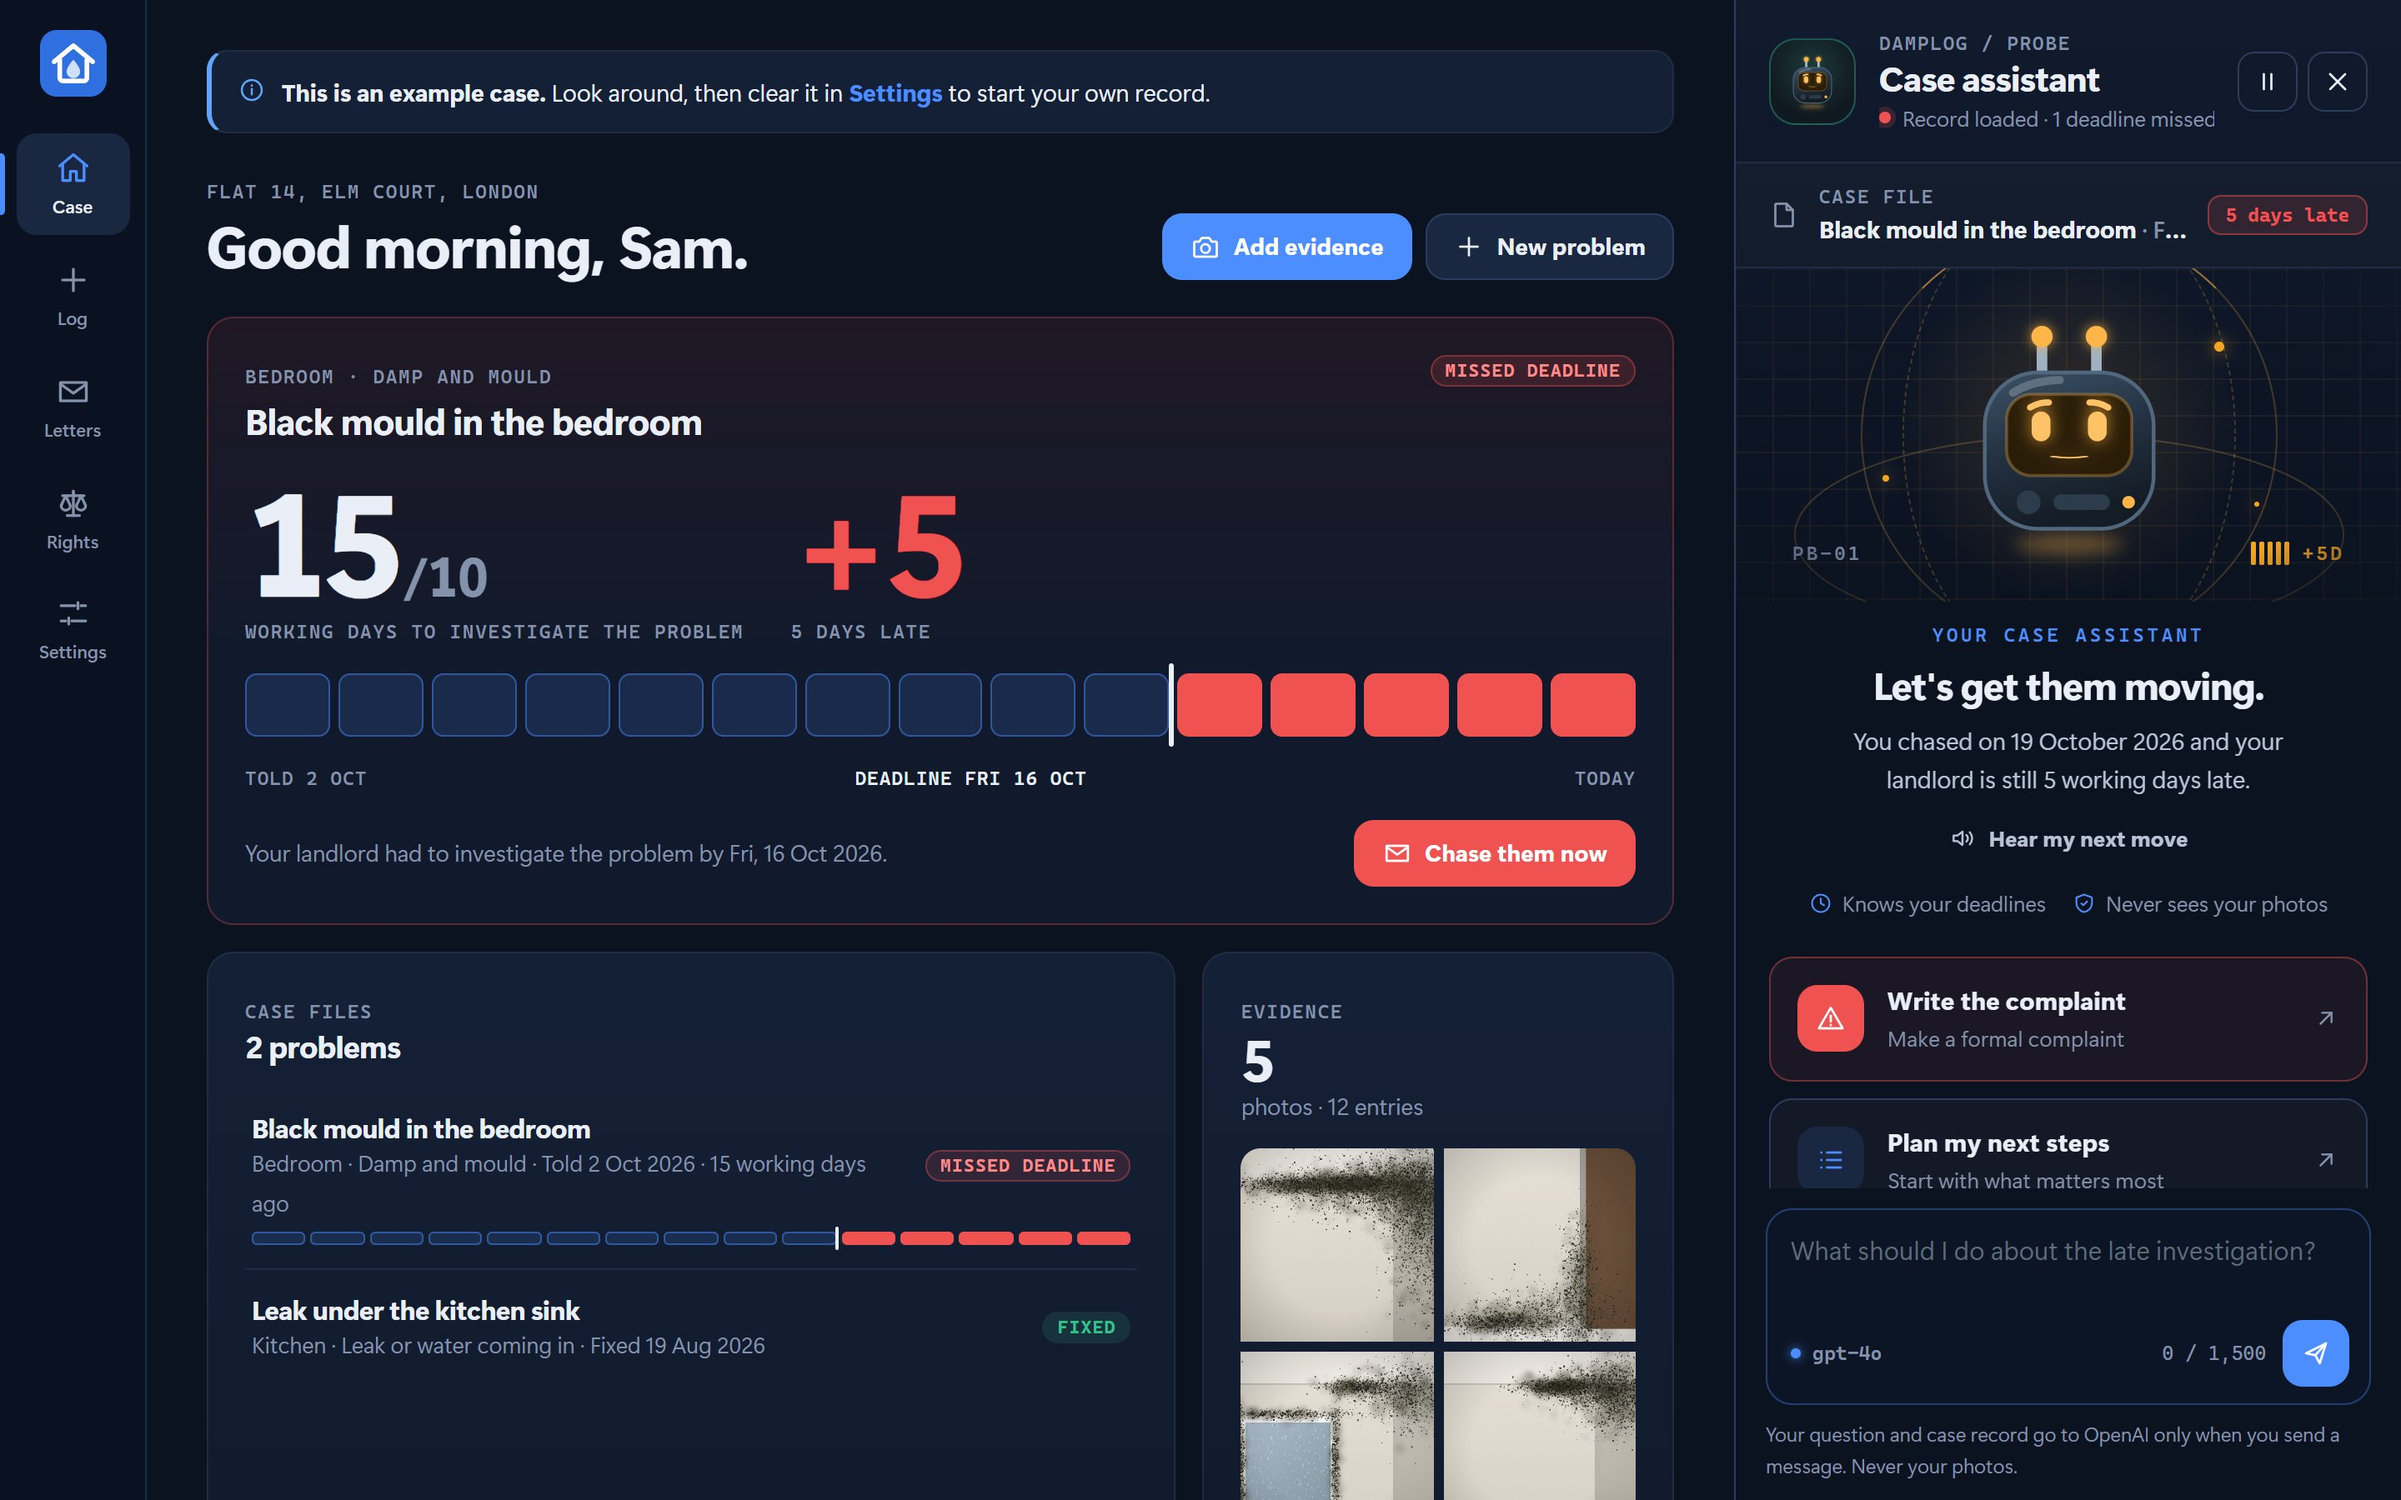
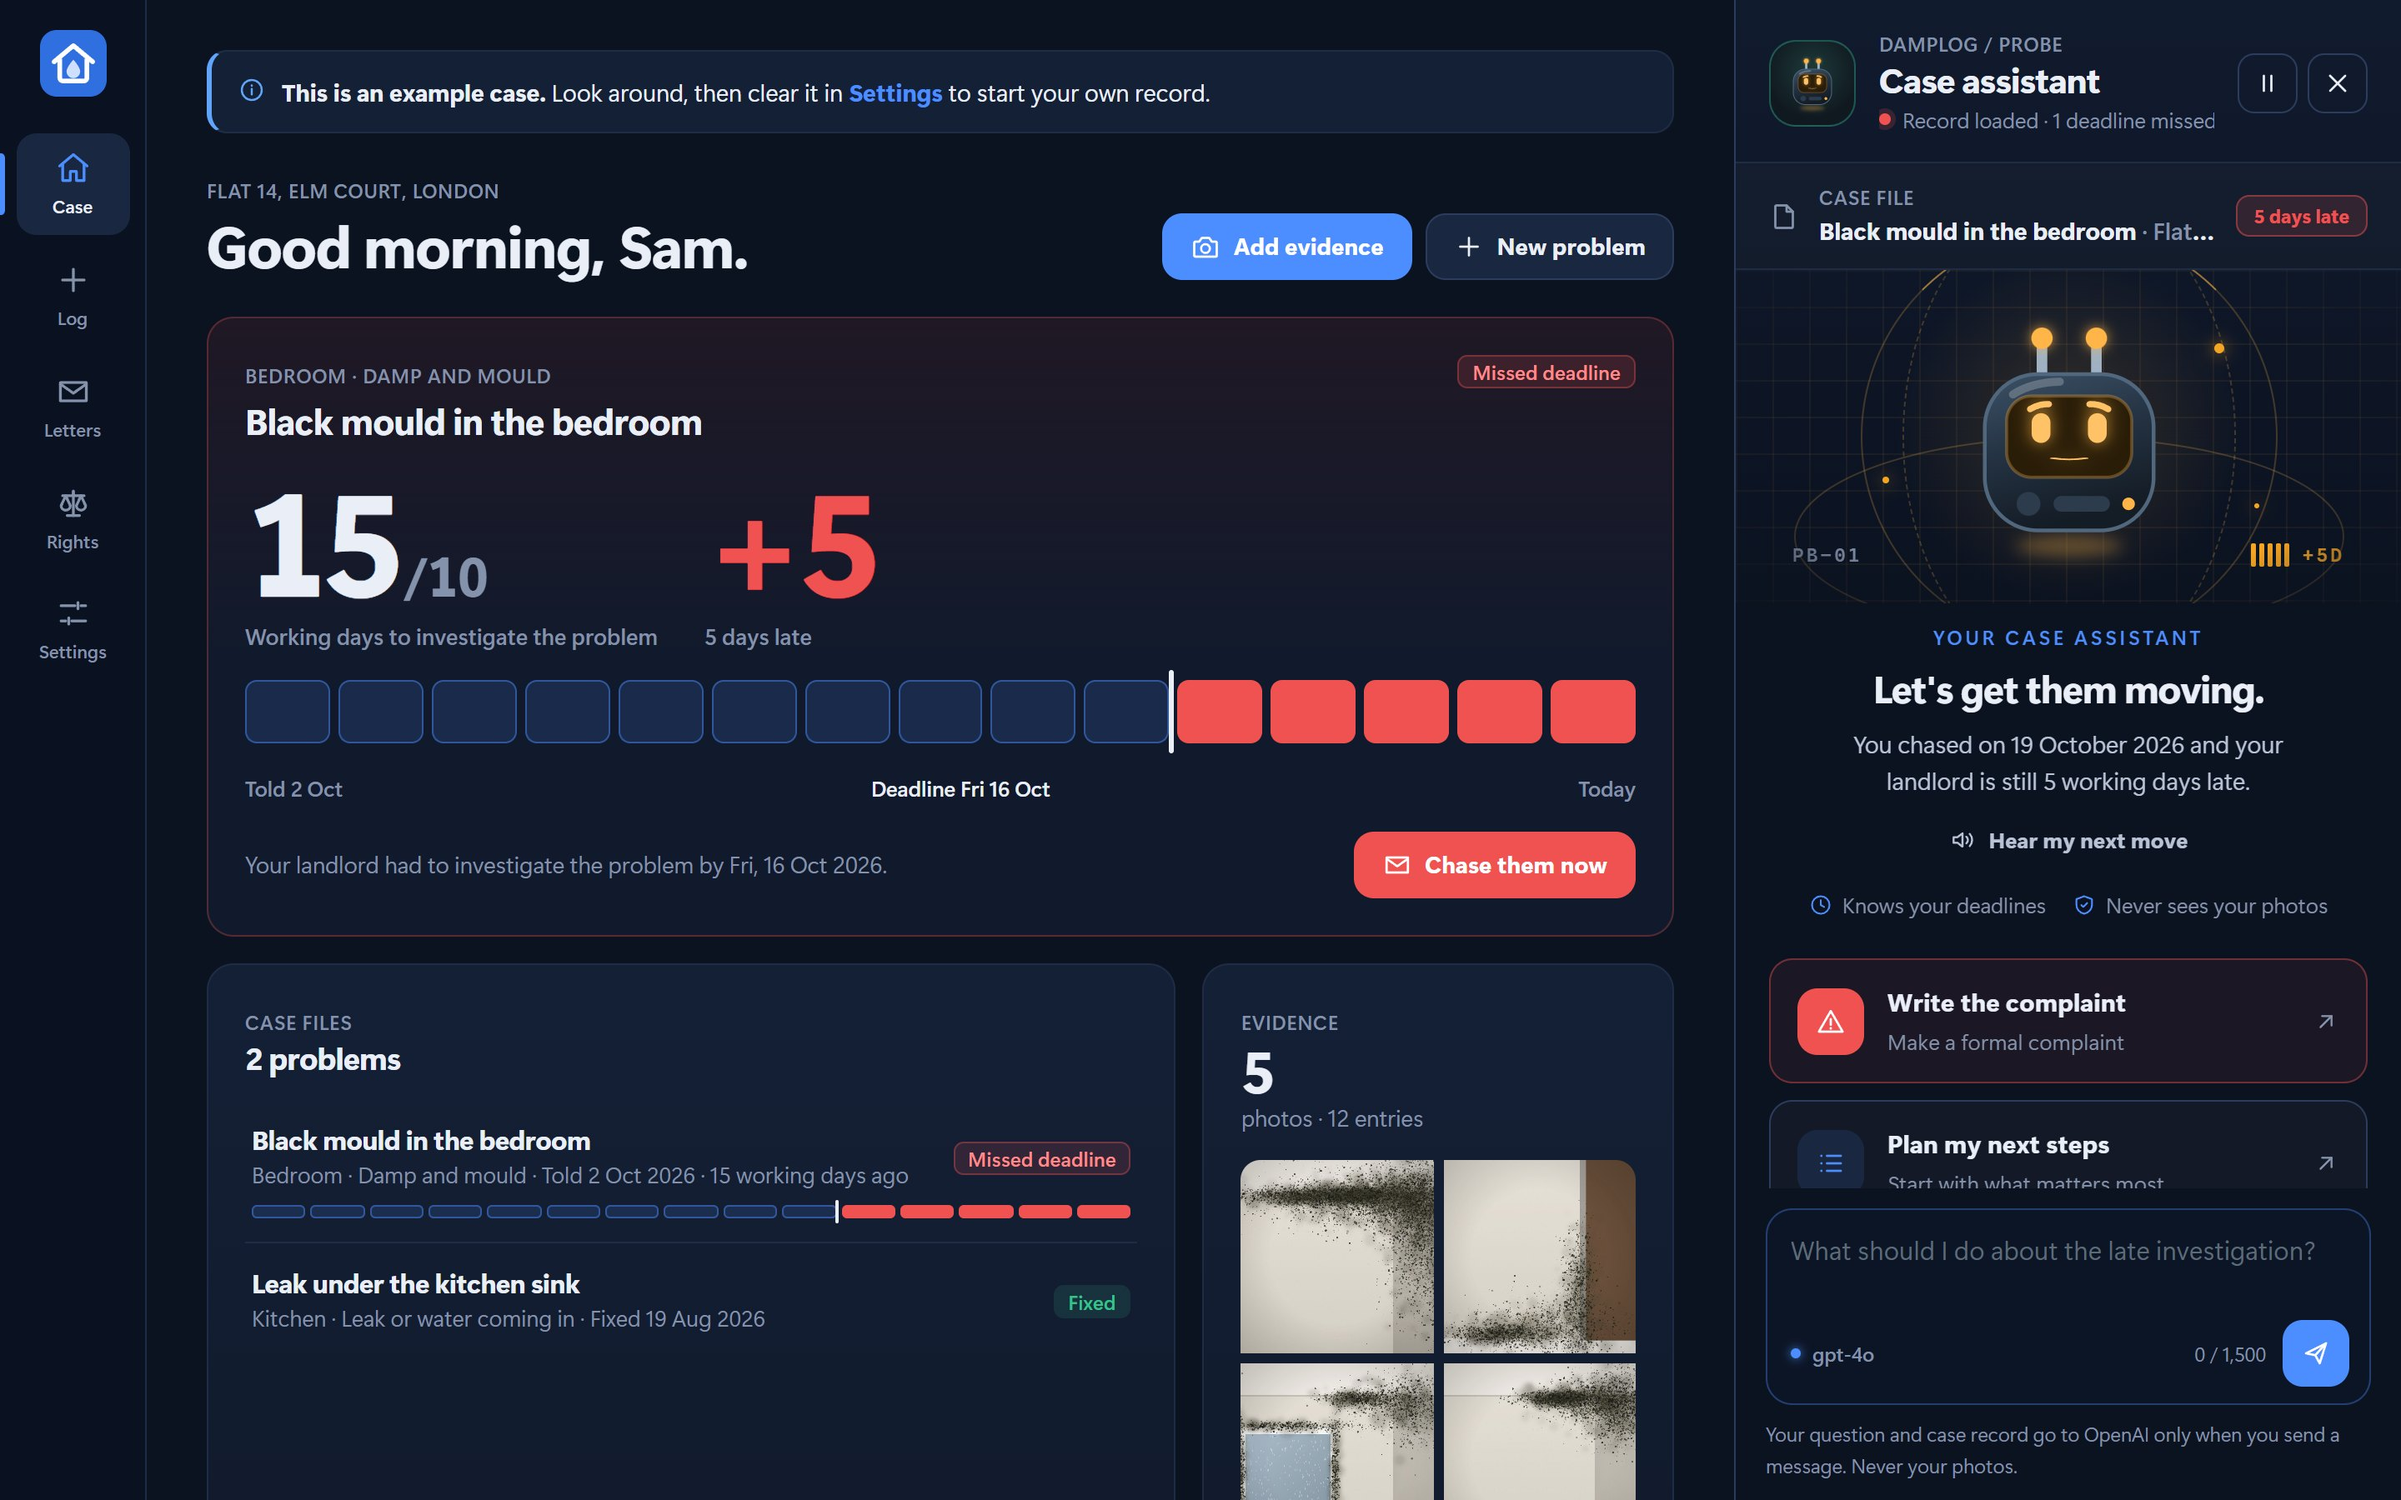
More business-like detail: clean labels, quiet badges, straight photo thumbnails

diff --git a/css/styles.css b/css/styles.css
@@ -33,7 +33,9 @@
   --radius: 10px;
   --radius-lg: 16px;
   --font: "Segoe UI Variable Display", "Segoe UI", system-ui, -apple-system, "Helvetica Neue", Roboto, sans-serif;
-  --mono: ui-monospace, "Cascadia Code", "SF Mono", Menlo, Consolas, monospace;
+  --code: ui-monospace, "Cascadia Code", "SF Mono", Menlo, Consolas, monospace;
+  /* Labels and dates use the main typeface: quieter and more corporate than a typewriter face. */
+  --mono: var(--font);
   --rail: 88px;
   /* aliases used by shared components */
   --surface: var(--panel);
@@ -67,7 +69,7 @@ h4 { font-size: 0.95rem; margin: 8px 0 2px; }
 p { margin: 0 0 10px; }
 p:last-child { margin-bottom: 0; }
 ul, ol { margin: 6px 0; padding-left: 20px; }
-code { background: var(--panel-3); padding: 1px 6px; border-radius: 5px; font: 0.86em var(--mono); }
+code { background: var(--panel-3); padding: 1px 6px; border-radius: 5px; font: 0.86em var(--code); }
 small, .small { font-size: 0.86rem; }
 .muted { color: var(--muted); }
 .mono { font-family: var(--mono); }
@@ -77,7 +79,7 @@ small, .small { font-size: 0.86rem; }
 .loading, .noscript { padding: 32px; color: var(--muted); }
 .prewrap { white-space: pre-wrap; overflow-wrap: anywhere; }
 .nowrap { white-space: nowrap; }
-.kicker { font: 600 0.72rem/1.4 var(--mono); letter-spacing: 0.08em; text-transform: uppercase; color: var(--muted); }
+.kicker { font: 600 0.74rem/1.4 var(--font); letter-spacing: 0.04em; text-transform: uppercase; color: var(--muted); }
 
 /* ---------- shell: rail on desktop, top bar and dock on phones ---------- */
 
@@ -107,7 +109,7 @@ main.enter > .page { animation: page-in 0.22s ease-out; }
 .page-head { display: flex; align-items: flex-end; justify-content: space-between; gap: 16px; flex-wrap: wrap; }
 .page-head .sub { color: var(--muted); margin: 6px 0 0; max-width: 72ch; }
 .page-actions { display: flex; gap: 8px; flex-wrap: wrap; }
-.back-link { display: inline-flex; align-items: center; gap: 4px; color: var(--muted); font: 600 0.78rem var(--mono); text-transform: uppercase; letter-spacing: 0.06em; margin-bottom: -10px; width: fit-content; }
+.back-link { display: inline-flex; align-items: center; gap: 4px; color: var(--muted); font: 600 0.86rem var(--font); margin-bottom: -10px; width: fit-content; }
 .back-link:hover { color: var(--ink); text-decoration: none; }
 
 /* ---------- tiles (cards) ---------- */
@@ -147,7 +149,7 @@ main.enter > .page { animation: page-in 0.22s ease-out; }
 .count { display: flex; flex-direction: column; }
 .count-num { font-size: clamp(3.4rem, 7vw, 5.4rem); font-weight: 800; line-height: 0.9; letter-spacing: -0.05em; font-variant-numeric: tabular-nums; }
 .count-num small { font-size: 0.38em; color: var(--muted); font-weight: 700; letter-spacing: -0.02em; margin-left: 4px; }
-.count-label { font: 600 0.72rem var(--mono); letter-spacing: 0.08em; text-transform: uppercase; color: var(--muted); margin-top: 10px; }
+.count-label { font: 500 0.84rem var(--font); color: var(--muted); margin-top: 10px; }
 .count.late .count-num { color: var(--bad); }
 .count.left .count-num { color: var(--accent); }
 .strip { display: grid; grid-auto-flow: column; grid-auto-columns: minmax(0, 1fr); gap: 5px; }
@@ -156,7 +158,7 @@ main.enter > .page { animation: page-in 0.22s ease-out; }
 .cell.late { background: var(--bad); border: 1px solid var(--bad); }
 .cell.today { box-shadow: inset 0 0 0 2px var(--ink); }
 .cell.due::after { content: ""; position: absolute; right: -4px; top: -7px; bottom: -7px; width: 3px; border-radius: 2px; background: var(--ink); }
-.strip-labels { display: flex; justify-content: space-between; gap: 10px; font: 600 0.72rem var(--mono); color: var(--muted); text-transform: uppercase; letter-spacing: 0.05em; }
+.strip-labels { display: flex; justify-content: space-between; gap: 10px; font: 500 0.8rem var(--font); color: var(--muted); }
 .strip-labels .due-label { color: var(--ink); }
 .strip.animate .cell { animation: cell-in 0.4s backwards; }
 @keyframes cell-in { from { opacity: 0; transform: scaleY(0.4); } }
@@ -223,7 +225,7 @@ table.kv td { padding: 4px 0; }
 
 .badges { display: flex; flex-wrap: wrap; gap: 6px; }
 .badges.spaced { margin-top: -8px; }
-.badge { display: inline-flex; align-items: center; padding: 3px 9px; border-radius: 999px; font: 700 0.68rem var(--mono); letter-spacing: 0.06em; text-transform: uppercase; white-space: nowrap; color: var(--ink-2); background: var(--panel-3); }
+.badge { display: inline-flex; align-items: center; padding: 2px 9px; border-radius: 6px; font: 600 0.76rem var(--font); white-space: nowrap; color: var(--ink-2); background: var(--panel-3); }
 .badge.ok { background: var(--ok-soft); color: var(--ok); }
 .badge.warn { background: var(--warn-soft); color: var(--warn); }
 .badge.bad { background: var(--bad-soft); color: #ff8a8a; box-shadow: inset 0 0 0 1px rgb(240 82 82 / 35%); }
@@ -236,7 +238,7 @@ table.kv td { padding: 4px 0; }
 .form .row { display: grid; grid-template-columns: 1fr 1fr; gap: 16px; }
 @media (max-width: 560px) { .form .row { grid-template-columns: 1fr; } }
 .field { display: flex; flex-direction: column; gap: 7px; min-width: 0; }
-.field-label { font: 600 0.72rem var(--mono); letter-spacing: 0.07em; text-transform: uppercase; color: var(--muted); }
+.field-label { font: 600 0.86rem var(--font); color: var(--ink-2); }
 .hint { color: var(--muted); font-size: 0.8rem; }
 .hint.error { color: var(--bad); }
 input, select, textarea, button { font: inherit; color: inherit; }
@@ -322,12 +324,10 @@ input:focus, select:focus, textarea:focus { outline: none; border-color: var(--a
 .photo-picker { display: flex; flex-direction: column; gap: 10px; }
 .thumbs { display: flex; gap: 10px; flex-wrap: wrap; }
 .thumbs:empty { display: none; }
-.thumb { position: relative; padding: 4px 4px 14px; border: 0; border-radius: 4px; background: #f3f1ea; width: 96px; flex: none; box-shadow: 0 6px 14px rgb(0 0 0 / 35%); }
-.thumb img { display: block; width: 100%; aspect-ratio: 1; object-fit: cover; border-radius: 2px; }
-button.thumb { cursor: zoom-in; transition: transform 0.15s; }
-button.thumb:nth-child(odd) { transform: rotate(-1.5deg); }
-button.thumb:nth-child(even) { transform: rotate(1.2deg); }
-button.thumb:hover { transform: rotate(0) scale(1.04); }
+.thumb { position: relative; padding: 0; border: 1px solid var(--line-strong); border-radius: 10px; overflow: hidden; background: var(--panel-3); width: 96px; flex: none; }
+.thumb img { display: block; width: 100%; aspect-ratio: 1; object-fit: cover; }
+button.thumb { cursor: zoom-in; transition: border-color 0.15s; }
+button.thumb:hover { border-color: var(--accent); }
 .thumb-remove { position: absolute; top: 6px; right: 6px; display: grid; place-items: center; width: 24px; height: 24px; padding: 0; border: 0; border-radius: 50%; background: rgb(11 18 32 / 80%); color: #fff; cursor: pointer; }
 .photo-dialog { width: min(980px, calc(100vw - 32px)); padding: 12px; }
 .photo-dialog img { display: block; width: 100%; max-height: 76vh; object-fit: contain; border-radius: 10px; background: #000; }
@@ -345,7 +345,7 @@ button.thumb:hover { transform: rotate(0) scale(1.04); }
 .step-dot.info { background: var(--info-soft); color: var(--info); }
 .step-text { display: flex; flex-direction: column; gap: 2px; min-width: 0; }
 .step-title { display: flex; align-items: center; gap: 8px; flex-wrap: wrap; }
-.step-rule { font: 0.74rem var(--mono); color: var(--muted); }
+.step-rule { font-size: 0.8rem; color: var(--muted); }
 .step-link { font-size: 0.84rem; font-weight: 700; margin-top: 2px; width: fit-content; }
 .step.overdue .step-title strong { color: var(--bad); }
 .deadlines-card > .btn { align-self: flex-start; }
@@ -361,9 +361,9 @@ button.thumb:hover { transform: rotate(0) scale(1.04); }
 .tl-body { display: flex; flex-direction: column; gap: 8px; min-width: 0; padding-top: 4px; }
 .tl-body p { margin: 0; color: var(--ink-2); }
 .tl-head { display: flex; align-items: baseline; gap: 10px; flex-wrap: wrap; }
-.tl-head time { font: 0.76rem var(--mono); color: var(--muted); }
+.tl-head time { font-size: 0.82rem; color: var(--muted); font-variant-numeric: tabular-nums; }
 .tl-tools { margin-left: auto; margin-top: -6px; }
-.tl-meta { font: 0.76rem var(--mono); color: var(--accent); }
+.tl-meta { font-size: 0.82rem; font-weight: 600; color: var(--ink-2); }
 
 /* ---------- letters ---------- */
 
@@ -396,7 +396,7 @@ button.thumb:hover { transform: rotate(0) scale(1.04); }
 .photo-grid { display: grid; grid-template-columns: repeat(2, minmax(0, 1fr)); gap: 16px; }
 .photo-grid figure { margin: 0; display: flex; flex-direction: column; gap: 6px; break-inside: avoid; }
 .photo-grid img { width: 100%; aspect-ratio: 4 / 3; object-fit: cover; border-radius: 4px; border: 1px solid var(--line); }
-.photo-grid figcaption { font: 0.76rem var(--mono); color: var(--ink-2); }
+.photo-grid figcaption { font-size: 0.8rem; color: var(--ink-2); }
 .report-foot { font-size: 0.78rem; color: var(--muted); border-top: 1px solid var(--line); padding-top: 14px; }
 
 /* ---------- settings ---------- */
@@ -576,7 +576,7 @@ button.thumb:hover { transform: rotate(0) scale(1.04); }
 .pp-spark.s3 { left: 78%; top: 70%; width: 3px; height: 3px; animation-delay: -4s; }
 .pp-stage.alert .pp-spark { background: var(--warn); box-shadow: 0 0 10px var(--warn); }
 @keyframes pp-drift { 0%, 100% { transform: translate(0, 0); opacity: 0.9; } 50% { transform: translate(-8px, -14px); opacity: 0.35; } }
-.pp-tag, .pp-meter { position: absolute; bottom: 22px; font: 600 0.72rem var(--mono); letter-spacing: 0.14em; color: var(--muted); }
+.pp-tag, .pp-meter { position: absolute; bottom: 22px; font: 600 0.72rem var(--code); letter-spacing: 0.14em; color: var(--muted); }
 .pp-tag { left: 34px; }
 .pp-meter { right: 34px; display: flex; align-items: flex-end; gap: 8px; color: #3ee6c1; }
 .pp-stage.alert .pp-meter { color: var(--warn); }
@@ -746,5 +746,5 @@ button.thumb:hover { transform: rotate(0) scale(1.04); }
 .compare-range:focus { box-shadow: none; }
 .compare-foot { display: flex; align-items: center; gap: 10px; }
 .compare-foot select { flex: 1; min-width: 0; font-size: 0.84rem; padding: 8px 10px; }
-.cmp-gap { flex: none; font: 700 0.74rem var(--mono); color: var(--accent); text-transform: uppercase; letter-spacing: 0.06em; }
+.cmp-gap { flex: none; font-size: 0.84rem; font-weight: 600; color: var(--ink-2); }
 @media (max-width: 560px) { .compare-foot { flex-wrap: wrap; } .compare-foot select { flex: 1 1 100%; } .cmp-gap { order: -1; } }
